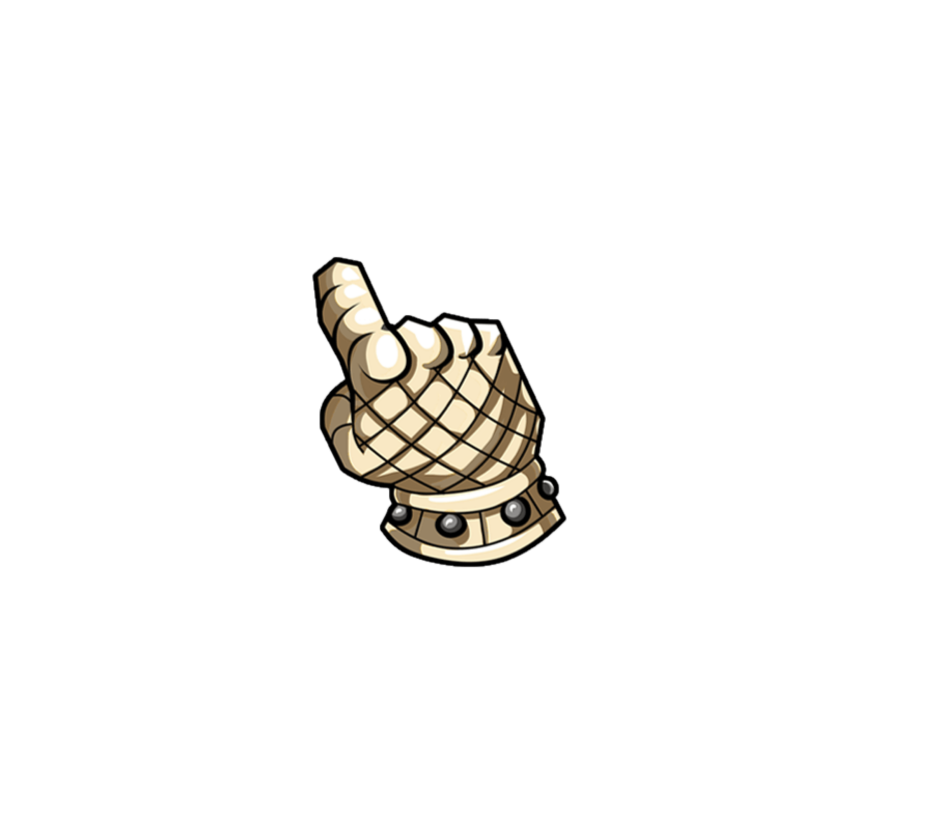
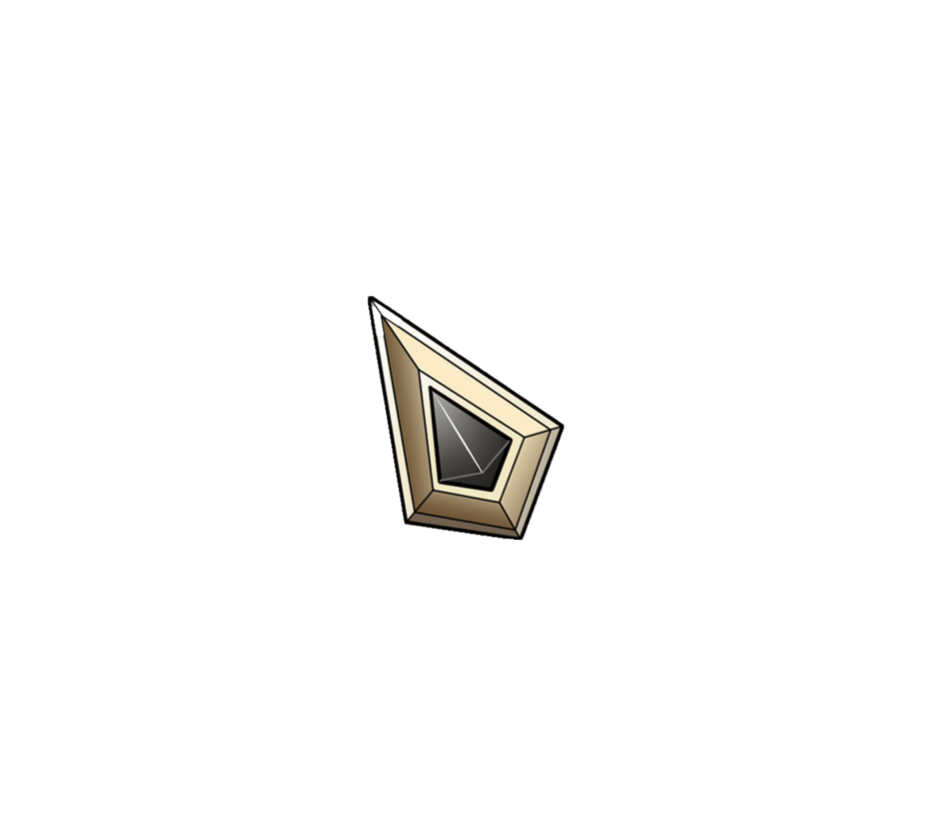
Before bed 2:11

Changed region(s): [[0.3053, 0.3099, 0.6105, 0.6818]]

diff --git a/menu.py b/menu.py
@@ -1,20 +1,22 @@
 import pygame
 import os
+from Cursor import Cursor
+
 class Menu:
 
-    def __init__(self,width,height):
+    def __init__(self,screen):
         font_path = os.path.join("data", "fonts", "Gothic_Ingame_Offiziell.ttf")  # Font z gothica
         self.font = pygame.font.Font(font_path, 70)
         self.color = (255, 255, 255)
         self.items = ["Rozpocznij gre", "Samouczek", "Tworcy gry", "Exit"]
-        self.background_image = pygame.transform.scale( pygame.image.load("data/Background4.jpg"),(width,height) )
+        self.background_image = pygame.transform.scale( pygame.image.load("data/Background4.jpg"),
+                                                        (screen.get_width(), screen.get_height()) )
         self.background_rect = self.background_image.get_rect()
         self.rects = []
         self.texts = []
-
-    def draw(self, screen):
-        screen.blit(self.background_image, self.background_rect)
-
+        self.cursor = Cursor()
+        self.hover_sound = pygame.mixer.Sound("data/sound/hover.mp3")
+        self.lock = False
         menu_height = len(self.items) * 80
         y = (screen.get_height() - menu_height) // 2  # Begin position for Y
         for item in self.items:
@@ -22,16 +24,42 @@ class Menu:
             text_rect = text.get_rect(center=(screen.get_width() // 2, y))
             self.texts.append(text)
             self.rects.append(text_rect)
-            screen.blit(text, text_rect)
             y += 80
+    def draw(self, screen):
+
+        screen.blit(self.background_image, self.background_rect)
+        for i in range(len(self.rects)):
+            screen.blit(self.texts[i], self.rects[i])
+        self.cursor.update()
+        self.cursor.draw(screen)
+
+
 
     def handle_click(self):
-        for rect in self.rects:
-            if rect.collidepoint(pygame.mouse.get_pos()):
-             return self.rects.index(rect)
+        for i in range(len(self.rects)):
+            if self.rects[i].collidepoint(pygame.mouse.get_pos()):
+             return i
         return -1
 
     def handle_hover(self):
-        pass
+        #lock do zarządzania czy kursor ruszył się z pola tekstowego
+        #opcjonalnie jeżeli i != poprzednie i to zastopowac dzwiek i zagrac ponownie
+        was_cursor_on_text = False
+        for i in range(len(self.rects)):
+            if self.rects[i].collidepoint(pygame.mouse.get_pos()):
+                self.texts[i] = self.font.render(self.items[i], True, (19,19,19))
+                if not self.lock :
+                 self.hover_sound.play()
+                 self.lock = True
+                was_cursor_on_text = True
+            else:
+                self.texts[i] = self.font.render(self.items[i], True, self.color)
+        if was_cursor_on_text :
+            self.cursor.changeType(1)
+        else:
+            self.cursor.changeType(2)
+            self.lock = False
+
+
 
 

diff --git a/Main.py b/Main.py
@@ -13,10 +13,11 @@ class Main:
         screen_info = pygame.display.Info()
         self.SCREEN_WIDTH = screen_info.current_w
         self.SCREEN_HEIGHT = screen_info.current_h
-        self.main_menu = menu.Menu(self.SCREEN_WIDTH,self.SCREEN_HEIGHT)
+        self.window = pygame.display.set_mode((self.SCREEN_WIDTH, self.SCREEN_HEIGHT))
+
+        self.main_menu = menu.Menu(self.window)
 
         # Ustawienie rozmiaru okna
-        self.window = pygame.display.set_mode((self.SCREEN_WIDTH, self.SCREEN_HEIGHT))
         pygame.display.set_caption("Gothic Gwint")
 
     def run(self):
@@ -26,14 +27,10 @@ class Main:
             for event in pygame.event.get():
                 if event.type == pygame.MOUSEBUTTONDOWN:
                     if event.button == 1:  # LMB
-                        mouse_pos = pygame.mouse.get_pos()
                         if self.main_menu.handle_click() == 3:
                             menu_running = False
             self.main_menu.draw(self.window)
-            cursor = Cursor()
-            cursor.update()
-            cursor.draw(self.window)
-
+            self.main_menu.handle_hover()
             pygame.display.update()
 
         # Zamknięcie Pygame

diff --git a/Cursor.py b/Cursor.py
@@ -1,7 +1,9 @@
 import pygame
 class Cursor:
     def __init__(self):
-        self.spr = pygame.transform.scale(pygame.image.load("data/cursor/test2.png"),(128,128))
+        self.spr1 = pygame.transform.scale(pygame.image.load("data/cursor/test1.png"),(128,128))
+        self.spr2 = pygame.transform.scale(pygame.image.load("data/cursor/test2.png"),(128,128))
+        self.spr = self.spr1;
         self.x = 0
         self.y = 0
     def draw(self,window):
@@ -10,3 +12,8 @@ class Cursor:
         self.x, self.y = pygame.mouse.get_pos()
         self.x -= 48
         self.y -= 48
+    def changeType(self,version):
+        if version == 1:
+         self.spr = self.spr1
+        else:
+         self.spr = self.spr2
